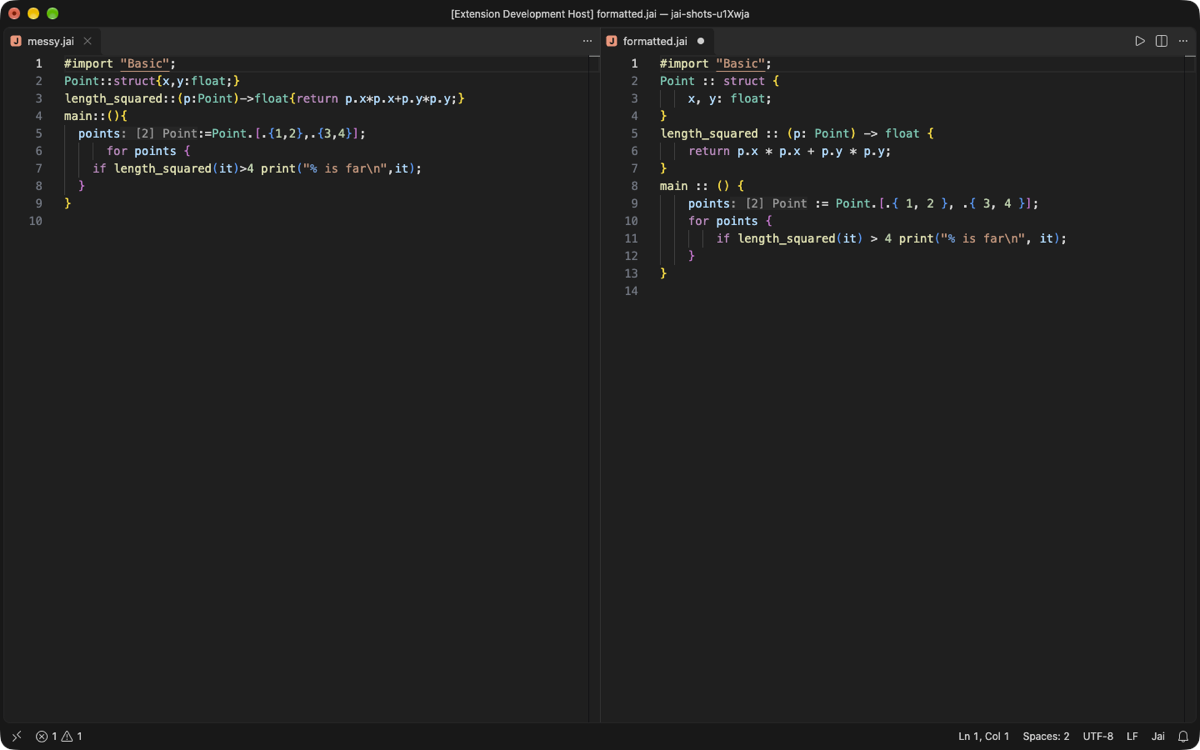
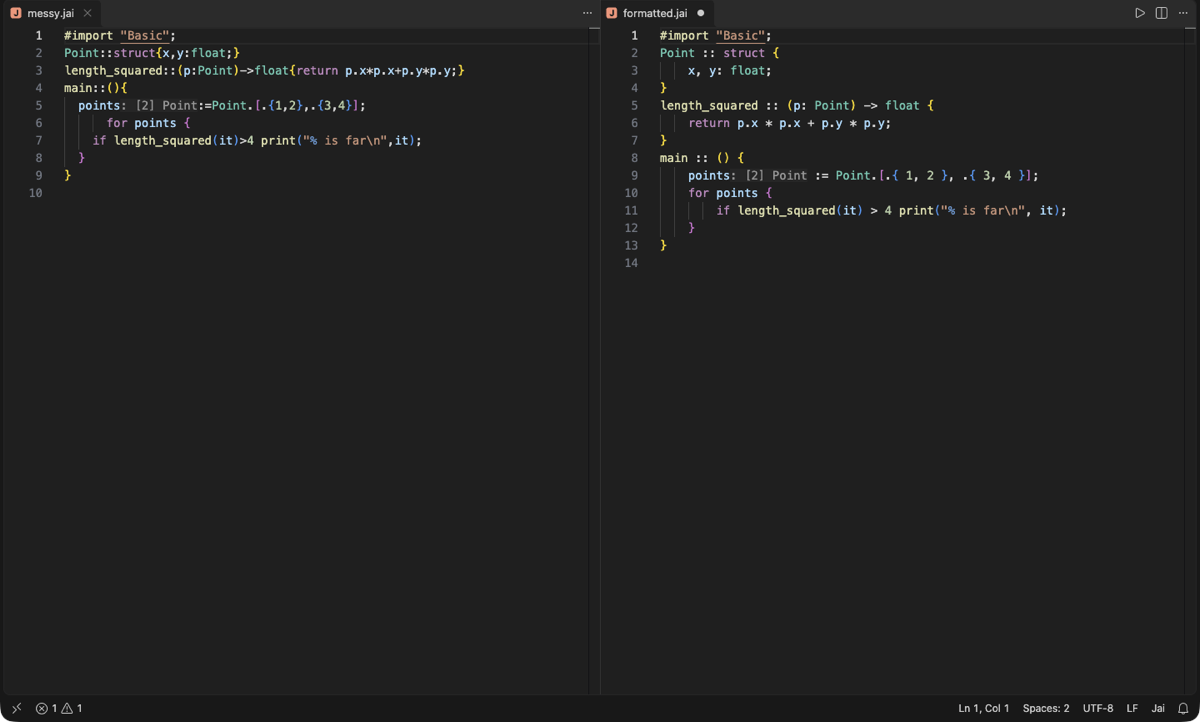
chore(vscode): crop the development host's title bar out of the screenshots

diff --git a/editors/vscode/test/screenshots/suite/index.ts b/editors/vscode/test/screenshots/suite/index.ts
@@ -26,6 +26,9 @@ function ancestors(): string[] {
   return pids;
 }
 
+// Height of the macOS title bar at the 1200px capture width.
+const TITLE_BAR = 28;
+
 let windowId: string | undefined;
 async function capture(name: string): Promise<void> {
   await vscode.commands.executeCommand("notifications.clearAll");
@@ -35,6 +38,8 @@ async function capture(name: string): Promise<void> {
   execFileSync("screencapture", ["-o", "-x", `-l${windowId}`, file]);
   // Retina captures are twice the window size; the Marketplace page is about 900px wide.
   execFileSync("sips", ["--resampleWidth", "1200", file, "--out", file], { stdio: "ignore" });
+  // Drop the title bar: the development host names itself and the temp folder there.
+  execFileSync("swift", [process.env.JAI_SHOTS_CROP_TOP!, file, String(TITLE_BAR)]);
   console.log(`captured ${file} (${Math.round(statSync(file).size / 1024)} KiB)`);
 }
 

diff --git a/editors/vscode/test/screenshots/crop-top.swift b/editors/vscode/test/screenshots/crop-top.swift
@@ -1,0 +1,12 @@
+// Removes the top `rows` pixel rows of a PNG in place: `swift crop-top.swift <file> <rows>`.
+import AppKit
+
+let file = URL(fileURLWithPath: CommandLine.arguments[1])
+let rows = Int(CommandLine.arguments[2])!
+guard let source = CGImageSourceCreateWithURL(file as CFURL, nil),
+      let image = CGImageSourceCreateImageAtIndex(source, 0, nil),
+      let cropped = image.cropping(to: CGRect(x: 0, y: rows, width: image.width, height: image.height - rows)),
+      let destination = CGImageDestinationCreateWithURL(file as CFURL, "public.png" as CFString, 1, nil)
+else { fatalError("cannot crop \(file.path)") }
+CGImageDestinationAddImage(destination, cropped, nil)
+guard CGImageDestinationFinalize(destination) else { fatalError("cannot write \(file.path)") }

diff --git a/editors/vscode/test/screenshots/run.ts b/editors/vscode/test/screenshots/run.ts
@@ -64,6 +64,7 @@ async function main(): Promise<void> {
     extensionTestsEnv: {
       JAI_SHOTS_OUT: path.join(root, "images"),
       JAI_SHOTS_WINDOW_ID: path.join(root, "test", "screenshots", "window-id.swift"),
+      JAI_SHOTS_CROP_TOP: path.join(root, "test", "screenshots", "crop-top.swift"),
     },
   });
 }
